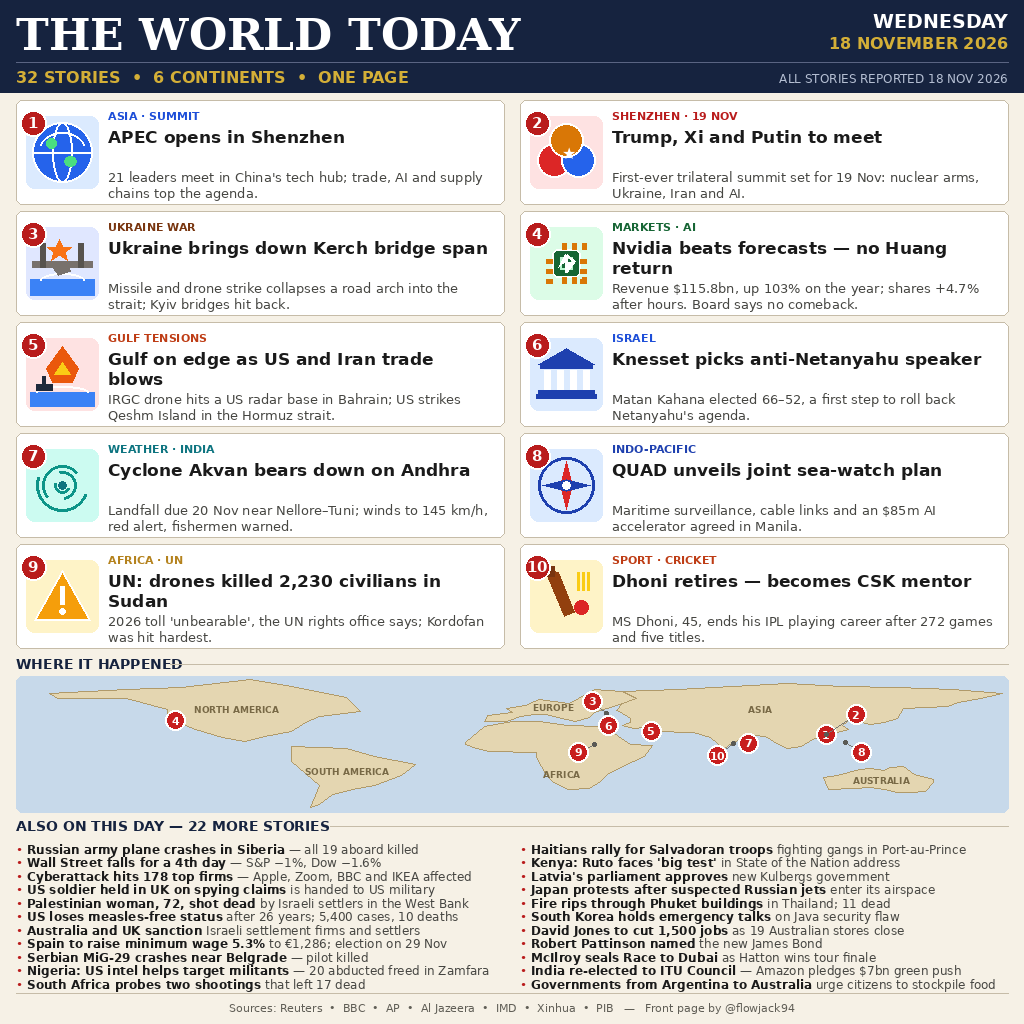
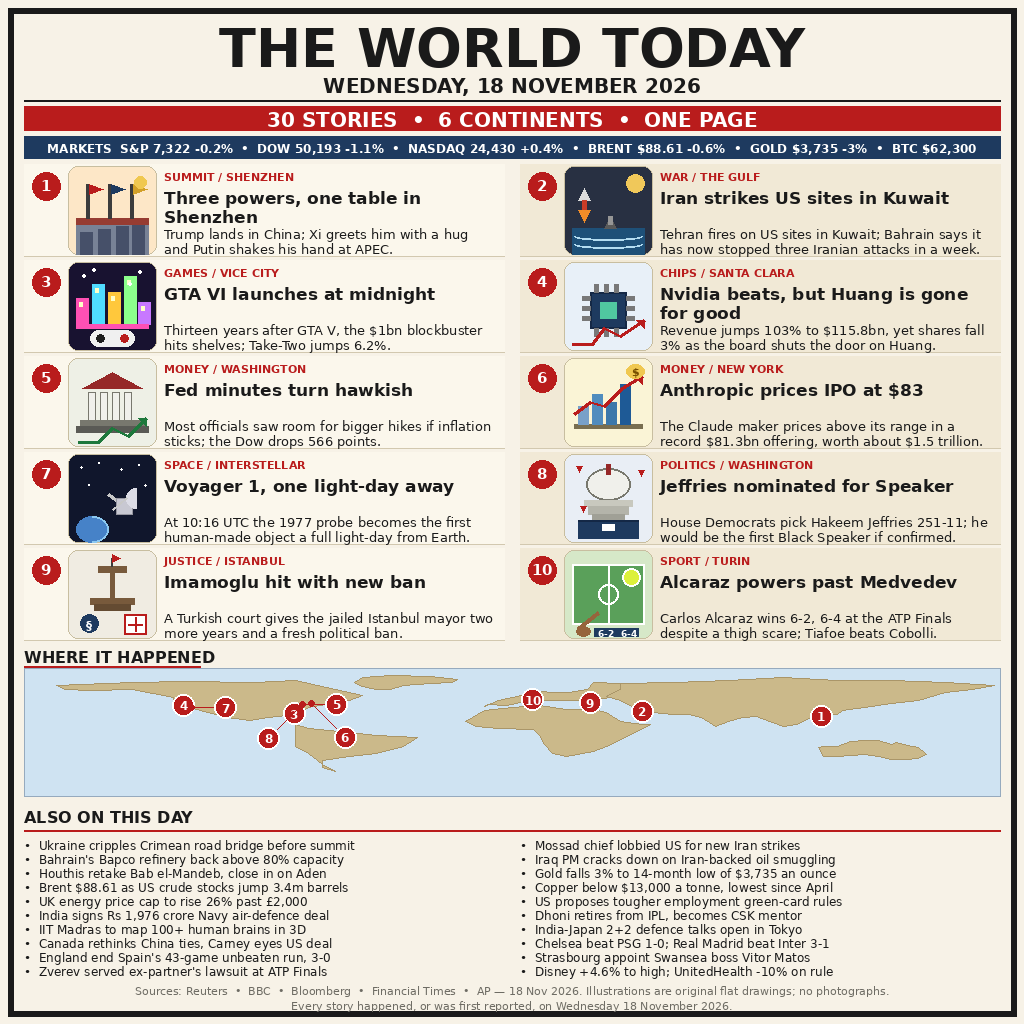
news-image-20261118 v3: The World Today — 18 November 2026, 30 stories, markets ticker, map pins

diff --git a/main.py b/main.py
@@ -1,25 +1,26 @@
-"""Deliver the bundled front page to the folder the grader reads.
+#!/usr/bin/env python3
+"""news-image-20261118 v3 entrypoint.
 
-The picture itself, entry.png, lives next to this file. Nothing here
-is generated at run time: the program only places a copy of that
-picture where the grading harness looks for it, using the standard
-library alone. No network is involved, and repeating the run writes
-the same bytes again, so both grading runs see the identical image.
+Copies the front-page image (entry.png) that ships in this repository
+into the output directory the grader reads. No network, no randomness,
+no writes anywhere else: the image bytes are reproduced exactly.
 """
-
-from os import environ
+import os
+import shutil
 from pathlib import Path
 
-
-def ship():
-    """Copy entry.png beside this file into the output directory."""
-    folder = Path(__file__).resolve().parent
-    picture = folder / "entry.png"
-    if not picture.is_file():
-        raise SystemExit("entry.png is missing next to main.py")
-    destination = Path(environ.get("MAKEFUN_OUTPUT_DIR", "/output"))
-    destination.mkdir(parents=True, exist_ok=True)
-    (destination / "entry.png").write_bytes(picture.read_bytes())
+HERE = Path(__file__).resolve().parent
 
 
-ship()
+def main():
+    # The grader reads exactly one file: entry.png in the output dir.
+    # MAKEFUN_OUTPUT_DIR names that dir; /output is the default.
+    out_dir = Path(os.environ.get("MAKEFUN_OUTPUT_DIR", "/output"))
+    out_dir.mkdir(parents=True, exist_ok=True)
+    src = HERE / "entry.png"
+    dst = out_dir / "entry.png"
+    shutil.copyfile(src, dst)
+
+
+if __name__ == "__main__":
+    main()
